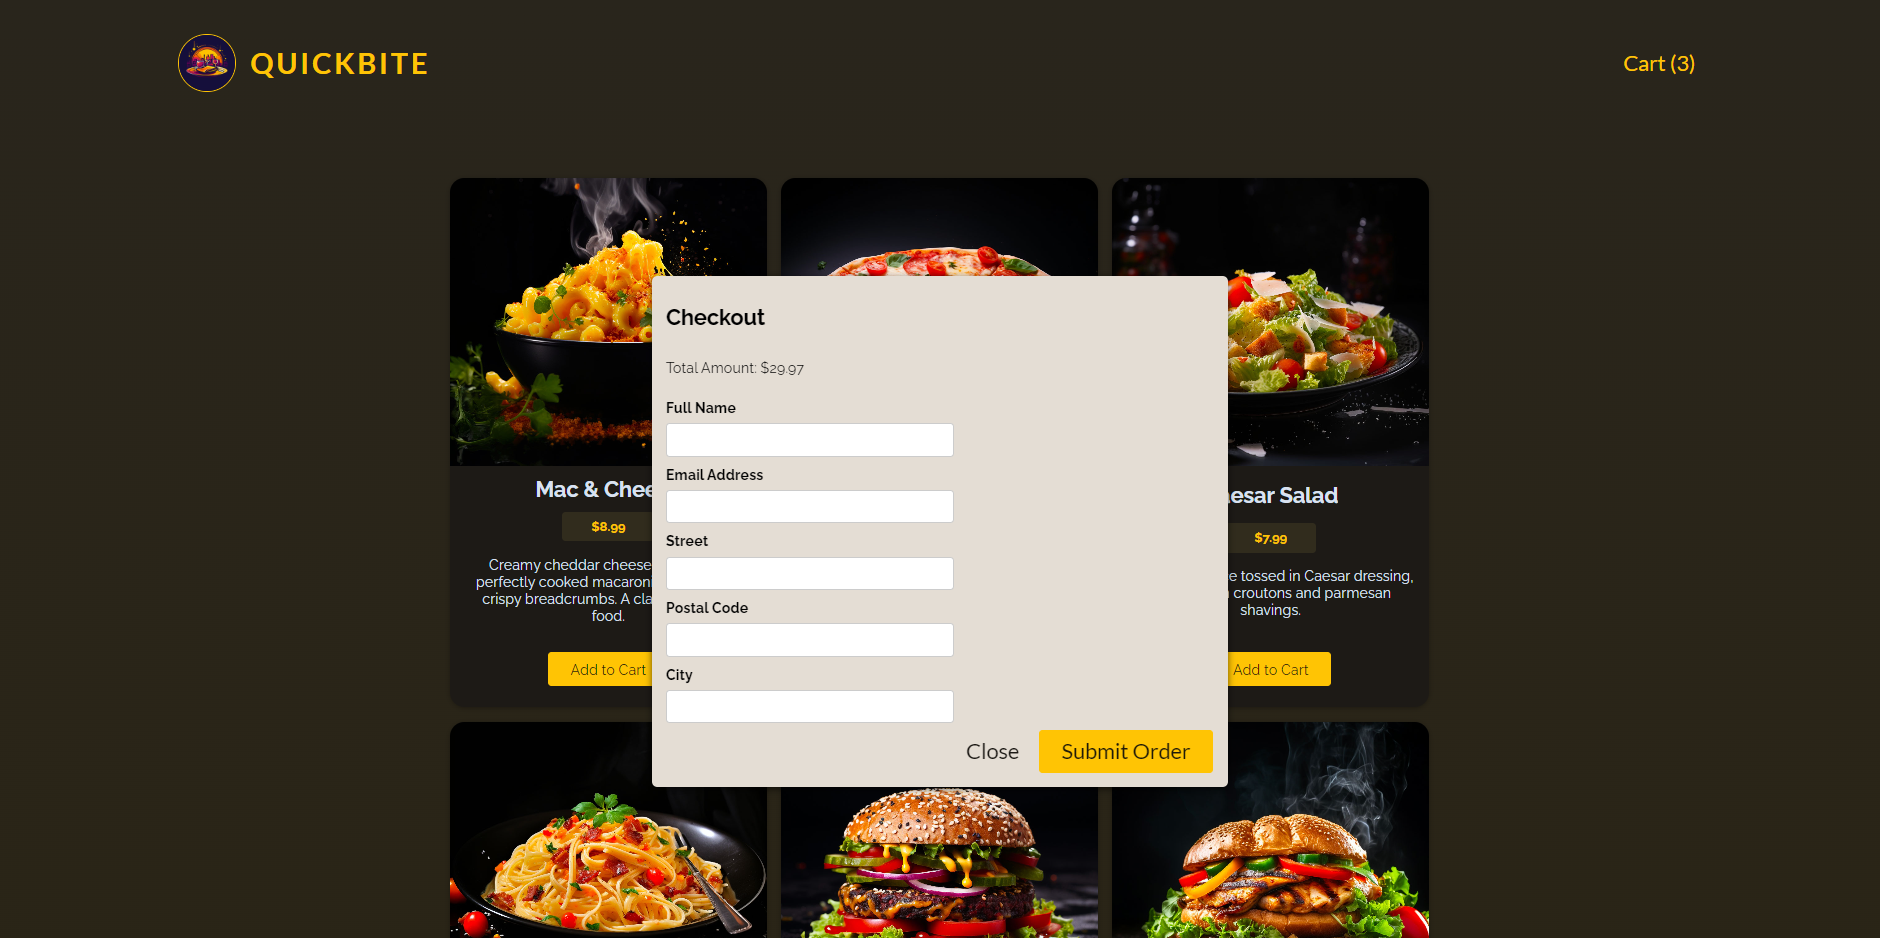
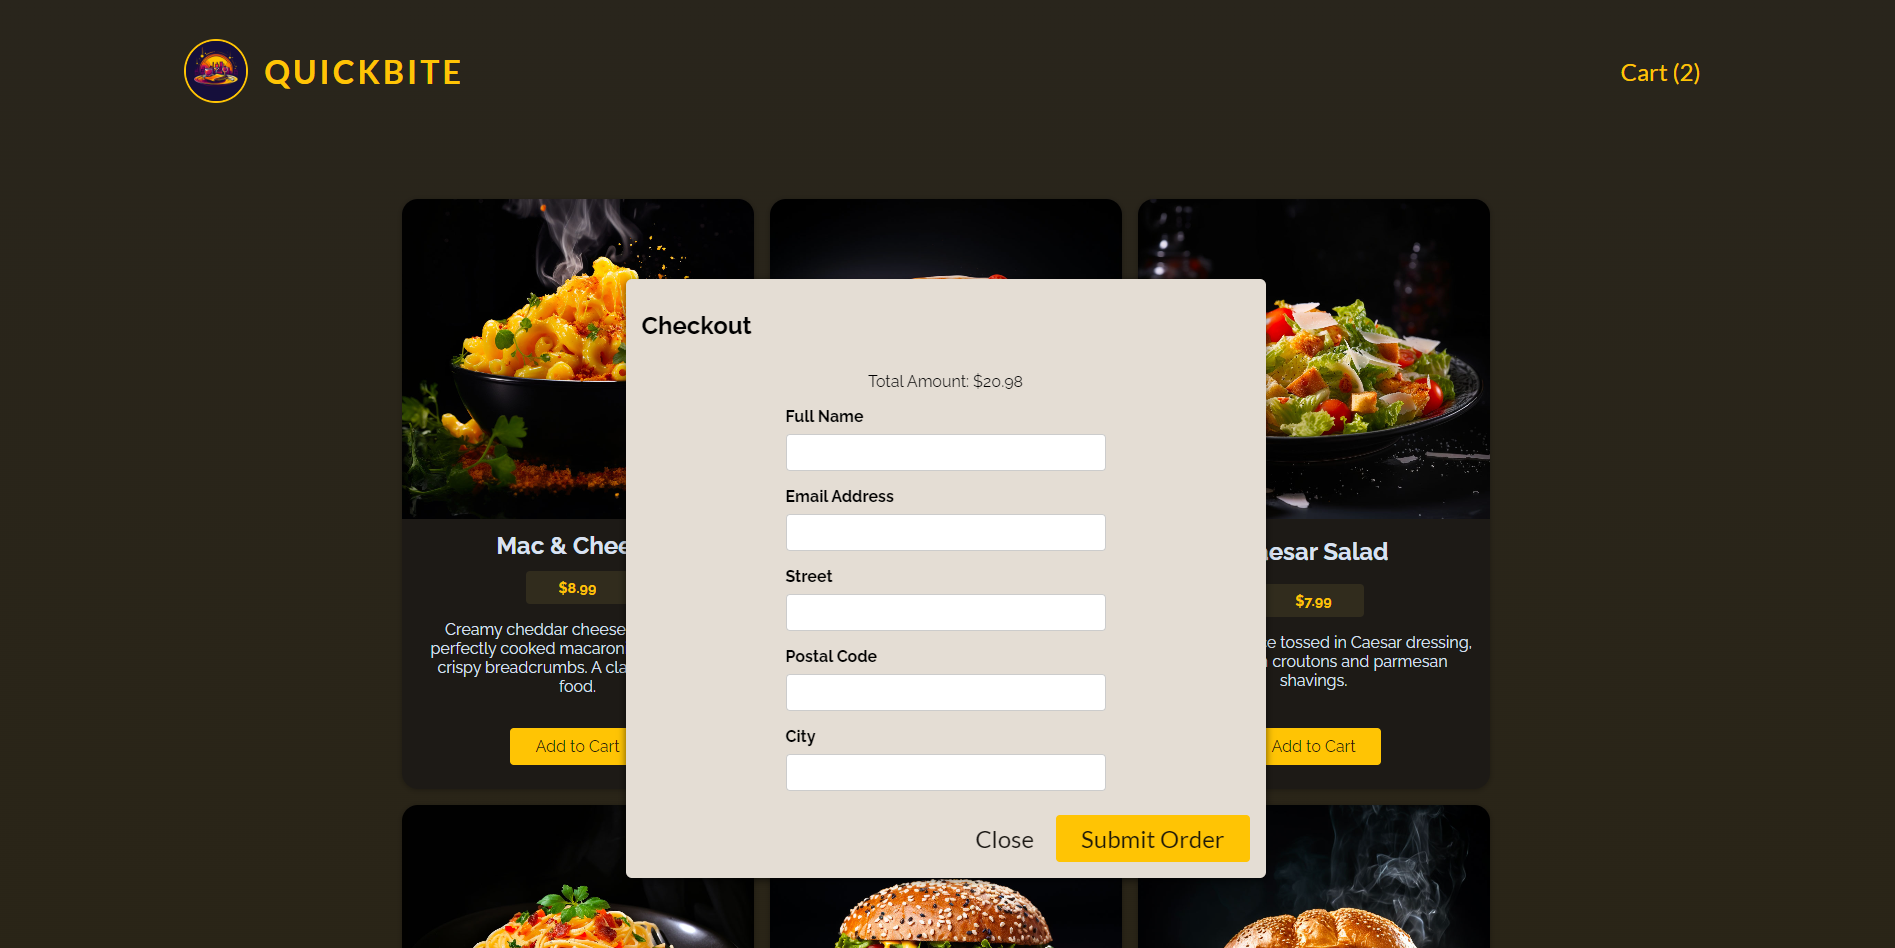
Fixed checkout layout

Changed region(s): [[0.1851, 0.1855, 0.8021, 1.0], [0.0926, 0.0309, 0.2468, 0.1237], [0.8638, 0.0618, 0.8947, 0.0928]]

diff --git a/src/components/Checkout.tsx b/src/components/Checkout.tsx
@@ -30,20 +30,30 @@ export function Checkout() {
         <div className="control">
           <p>Total Amount: ${totalPrice} </p>
 
-          <label htmlFor="name">Full Name</label>
-          <input type="text" required minLength={3} maxLength={25} />
+          <div className="input-group">
+            <label htmlFor="name">Full Name</label>
+            <input type="text" required minLength={3} maxLength={25} />
+          </div>
 
-          <label htmlFor="email">Email Address</label>
-          <input type="email" required />
+          <div className="input-group">
+            <label htmlFor="email">Email Address</label>
+            <input type="email" required />
+          </div>
 
-          <label htmlFor="name">Street</label>
-          <input type="text" required minLength={5} maxLength={55} />
+          <div className="input-group">
+            <label htmlFor="street">Street</label>
+            <input type="text" required minLength={5} maxLength={55} />
+          </div>
 
-          <label htmlFor="postalCode">Postal Code</label>
-          <input type="text" required minLength={3} />
+          <div className="input-group">
+            <label htmlFor="postalCode">Postal Code</label>
+            <input type="text" required minLength={3} />
+          </div>
 
-          <label htmlFor="city">City</label>
-          <input type="text" required minLength={3} />
+          <div className="input-group">
+            <label htmlFor="city">City</label>
+            <input type="text" required minLength={3} />
+          </div>
         </div>
         <div className="modal-actions">
           <button

diff --git a/src/index.css b/src/index.css
@@ -183,28 +183,30 @@ h1 {
   margin: 0.5rem 0;
   display: flex;
   flex-direction: column;
+  align-items: center;
 }
 
-.control label {
-  font-weight: bold;
-  margin-bottom: 0.5rem;
-  margin-top: 10px;
-}
-
-.control input {
+.input-group {
+  display: flex;
+  flex-direction: column;
   width: 100%;
   max-width: 20rem;
+  margin-bottom: 1rem;
+}
+
+.input-group label {
+  font-weight: bold;
+  margin-bottom: 0.5rem;
+}
+
+.input-group input {
+  width: 100%;
   font: inherit;
   padding: 0.5rem;
   border-radius: 4px;
   border: 1px solid #ccc;
 }
 
-.control-row {
-  display: flex;
-  justify-content: flex-start;
-  gap: 1rem;
-}
 
 .button {
   font: inherit;
